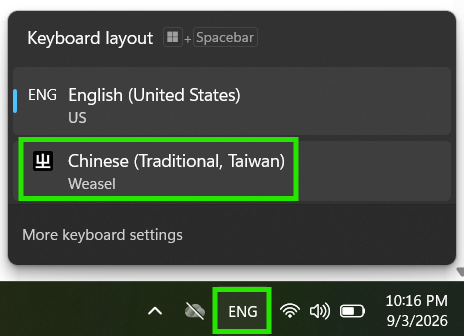
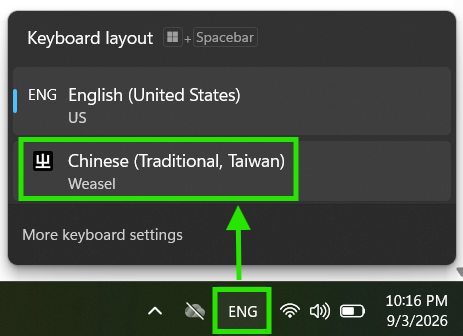
Update macOS/Windows setup docs and add Squirrel input source screenshots

diff --git a/macOS/README.md b/macOS/README.md
@@ -14,23 +14,41 @@ Inside your extracted `reformed-chinese-keyboard-main` folder, go into `macOS` s
 
 ![ReformedKeyboardMacSetup.command](../media/squirrel/squirrel1.png)
 
-If you see a security pop-up asking `Are you sure you want to open it?`, click `Open`
+In the security pop-up, click `Open`
 
-![ReformedKeyboardMacSetup.command](../media/squirrel/squirrel2.png)
+![Security pop-up](../media/squirrel/squirrel2.png)
 
-Follow the prompts shown in the opened Terminal window. Specifically, enter your `sudo` password (same password you use to log in to your Mac user account) and press `Return` or `Enter` key when prompted
+Follow the prompts shown in the opened Terminal window. Specifically, enter the password you log in to your Mac with and press `Return` or `Enter` key when prompted
 
-![ReformedKeyboardMacSetup.command](../media/squirrel/squirrel3.png)
+![Install Hombebrew](../media/squirrel/squirrel3.png)
 
-![ReformedKeyboardMacSetup.command](../media/squirrel/squirrel4.png)
+![Press RETURN/ENTER](../media/squirrel/squirrel4.png)
 
-![ReformedKeyboardMacSetup.command](../media/squirrel/squirrel5.png)
+![Install Squirrel](../media/squirrel/squirrel5.png)
+
+You should see below screenshot in Terminal window once the installation completes
+
+![Install Squirrel](../media/squirrel/squirrel6.png)
 
 ### Step 3: Add Squirrel to Input Sources
 
-When the Terminal program finishes running, open **System Settings** and go to **Keyboard → Input Sources**. Click the **`+`** button
+Click the Apple icon () in top-left corner of your screen and access `System Settings...`
 
-Search and add **Squirrel** (either `Squirrel - Simplified` or `Squirrel - Traditional` works, there's no difference to Reformed Chinese keyboard)
+![System Settings](../media/squirrel/squirrel7.png)
+
+Go to `Keyboard` and next to `Input Sources`, click `Edit`
+
+![Keyboard](../media/squirrel/squirrel8.png)
+
+Click the `+` button
+
+![+ button](../media/squirrel/squirrel9.png)
+
+Search "Squirrel", you will see `Squirrel - Simplified` and `Squirrel - Traditional`. Select either one (`Simplified` and `Traditional` are misleading as keyboard is actually Reformed Chinese) and click `Add`  → `Done`
+
+![Search "Squirrel"](../media/squirrel/squirrel10.png)
+
+![Search "Squirrel"](../media/squirrel/squirrel11.png)
 
 ### Step 4: Log out and log in
 

diff --git a/windows/README.md b/windows/README.md
@@ -40,11 +40,11 @@ In the security pop-up, click `Run` to install Reformed Chinese keyboard
 
 ![Security pop-up](../media/weasel/weasel9.png)
 
-If successful, you will see below screenshot once the installation completes
+You should see below screenshot once the installation completes
 
 ![Install complete](../media/weasel/weasel10.png)
 
-Select Weasel keyboard by `⊞ Windows key`**+**`Spacebar` or from bottom right corner of your Windows taskbar (Ignore `Traditional, Taiwan` as that is misleading, the keyboard is indeed Reformed Chinese not Traditional Chinese)
+Select Weasel keyboard by `⊞ Windows key`**+**`Spacebar` or from bottom-right corner of your Windows taskbar (Ignore `Traditional, Taiwan` as that is misleading, the keyboard is indeed Reformed Chinese not Traditional Chinese)
 
 ![Select Weasel keyboard](../media/weasel/weasel11.png)
 
